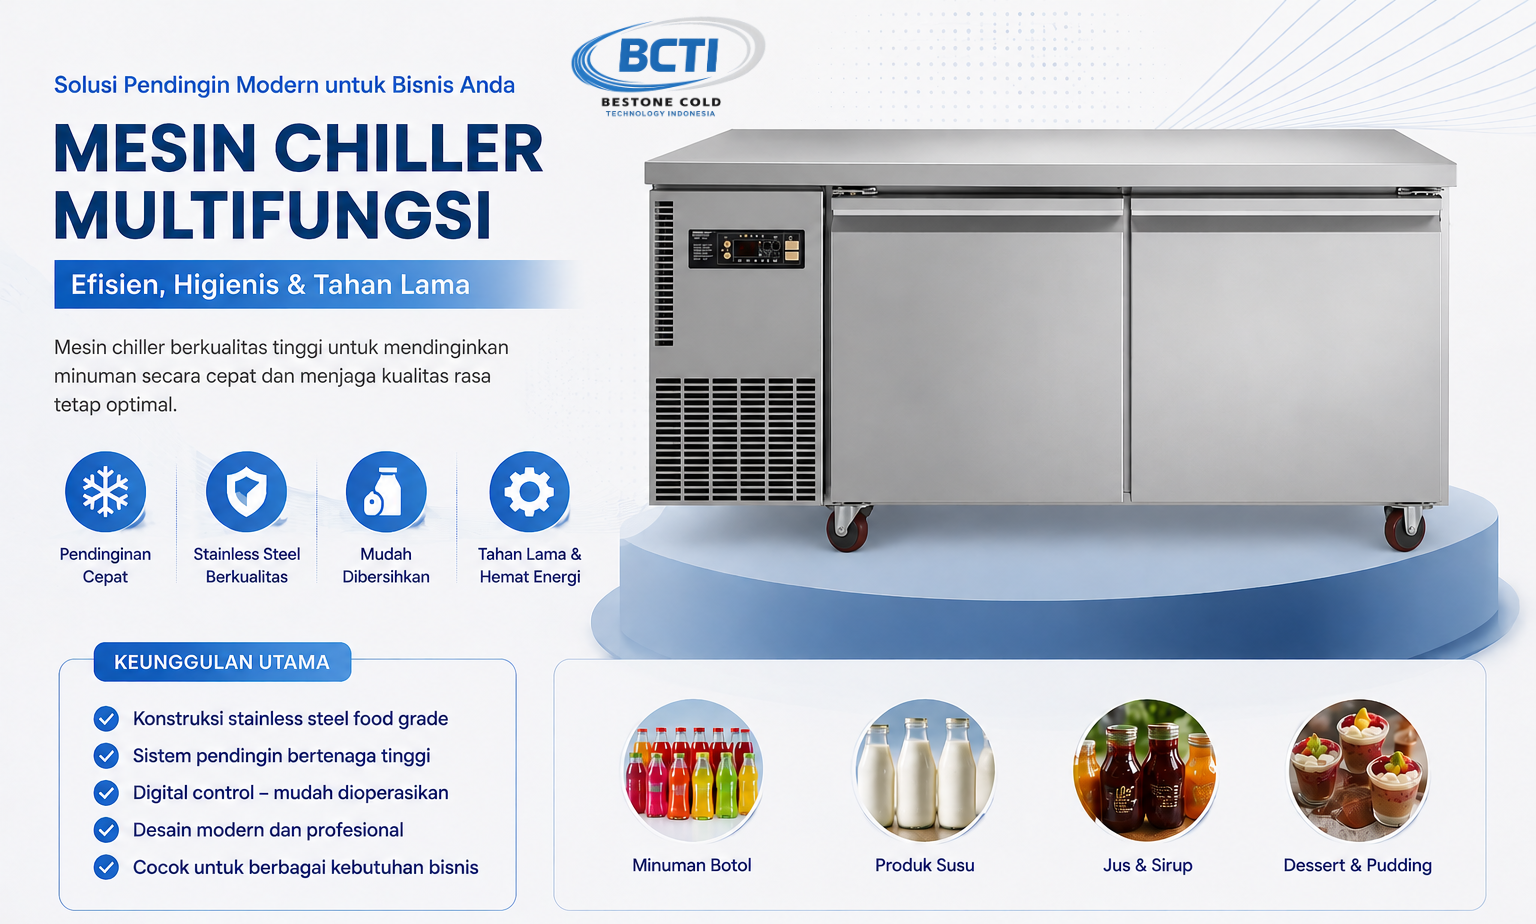
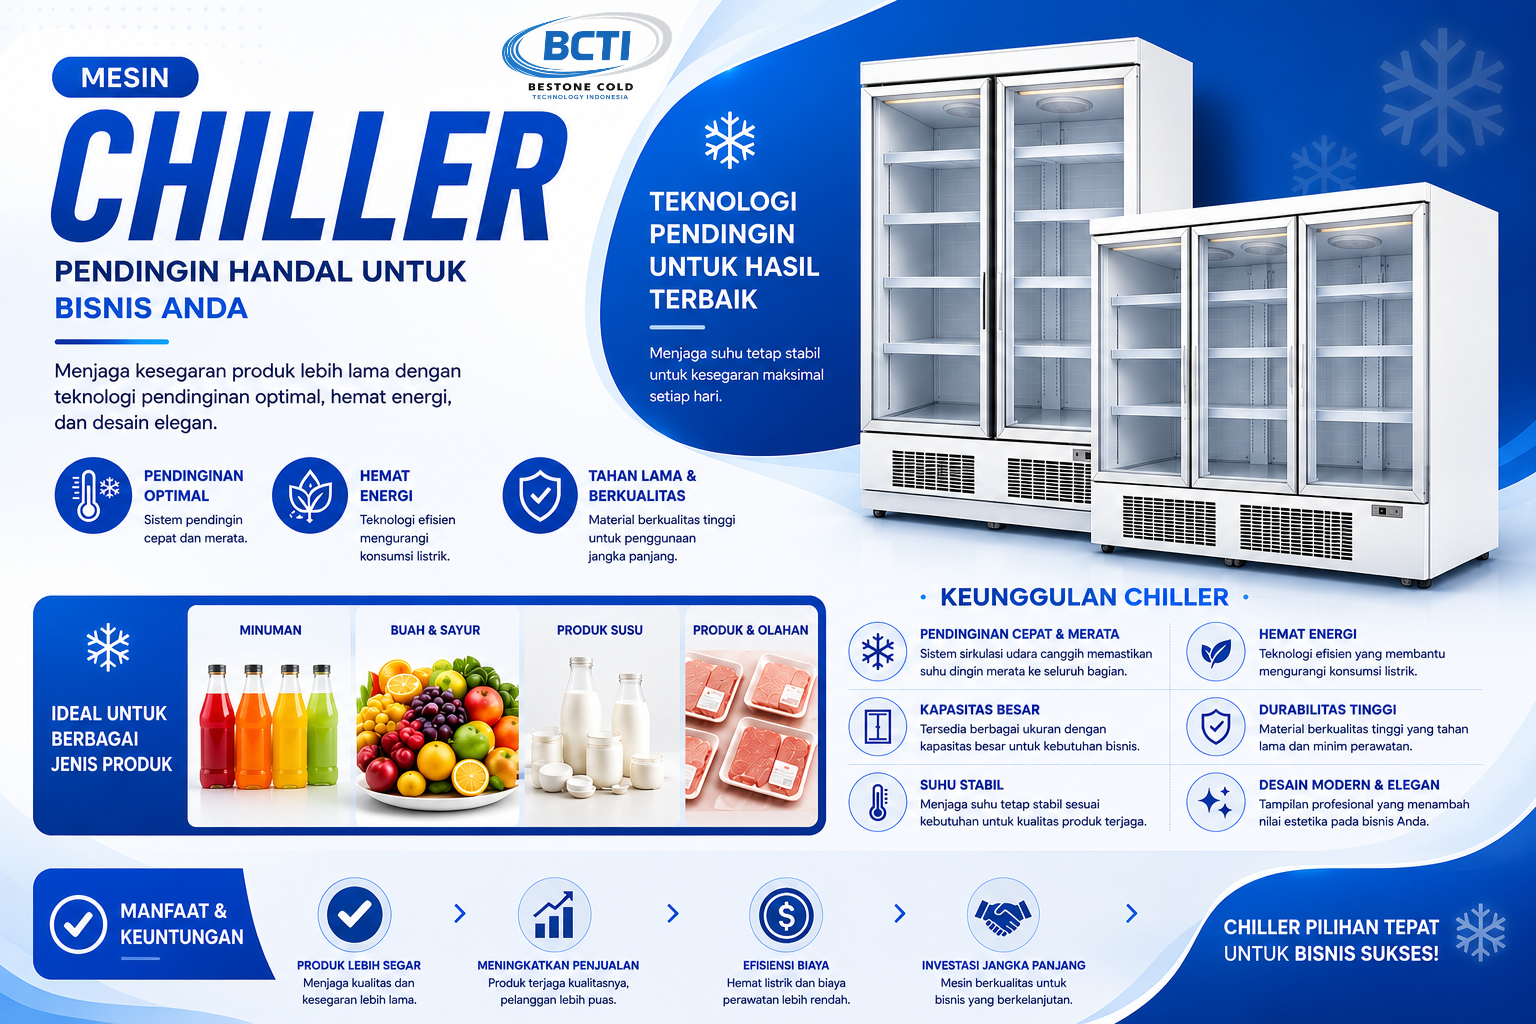
Fix: Solve bug code in packaging findunique

diff --git a/app/[locale]/product/packaging/[code]/page.tsx b/app/[locale]/product/packaging/[code]/page.tsx
@@ -19,12 +19,12 @@ export async function generateMetadata({
 export default async function Page({
   params,
 }: {
-  params: { locale: "id" | "en"; slug: string };
+  params: { locale: "id" | "en"; code: string };
 }) {
-  const { locale, slug } = await params;
-  const exists = await prisma.product.findUnique({
-    where: { slug },
-    select: { slug: true },
+  const { locale, code } = await params;
+  const exists = await prisma.packagingProduct.findUnique({
+    where: { code },
+    select: { code: true },
   });
   if (!exists) {
     notFound();

diff --git a/app/[locale]/product/[slug]/page.tsx b/app/[locale]/product/[slug]/page.tsx
@@ -1,11 +1,11 @@
-import { notFound } from "next/navigation";
+import { redirect, notFound } from "next/navigation";
 import { prisma } from "@/src/lib/prisma";
 export default async function LegacyProductPage({
   params,
 }: {
   params: Promise<{ locale: string; slug: string }>;
 }) {
-  const { slug } = await params;
+  const { locale, slug } = await params;
   const product = await prisma.product.findUnique({
     where: { slug },
     select: { slug: true },
@@ -14,4 +14,5 @@ export default async function LegacyProductPage({
   if (!product) {
     notFound();
   }
+  redirect(`/${locale}/product/machine/${slug}`);
 }

diff --git a/app/[locale]/component/BlogDesktop.tsx b/app/[locale]/component/BlogDesktop.tsx
@@ -58,7 +58,7 @@ export default function BlogDesktop({ articles, locale, dict }: Props) {
               href={`/${locale}/blog/${article.slug}`}
               className="inline-block mt-auto text-blue-600 hover:underline"
             >
-              Baca Selengkapnya →
+              {dict.article.detail}
             </Link>
           </div>
         ))}

diff --git a/app/[locale]/component/BlogMobile.tsx b/app/[locale]/component/BlogMobile.tsx
@@ -61,7 +61,7 @@ export default function BlogMobile({ articles, locale, dict }: Props) {
               href={`/${locale}/blog/${article.slug}`}
               className="inline-block mt-auto text-blue-600 hover:underline"
             >
-              Baca Selengkapnya →
+              {dict.article.detail}
             </Link>
           </div>
         ))}